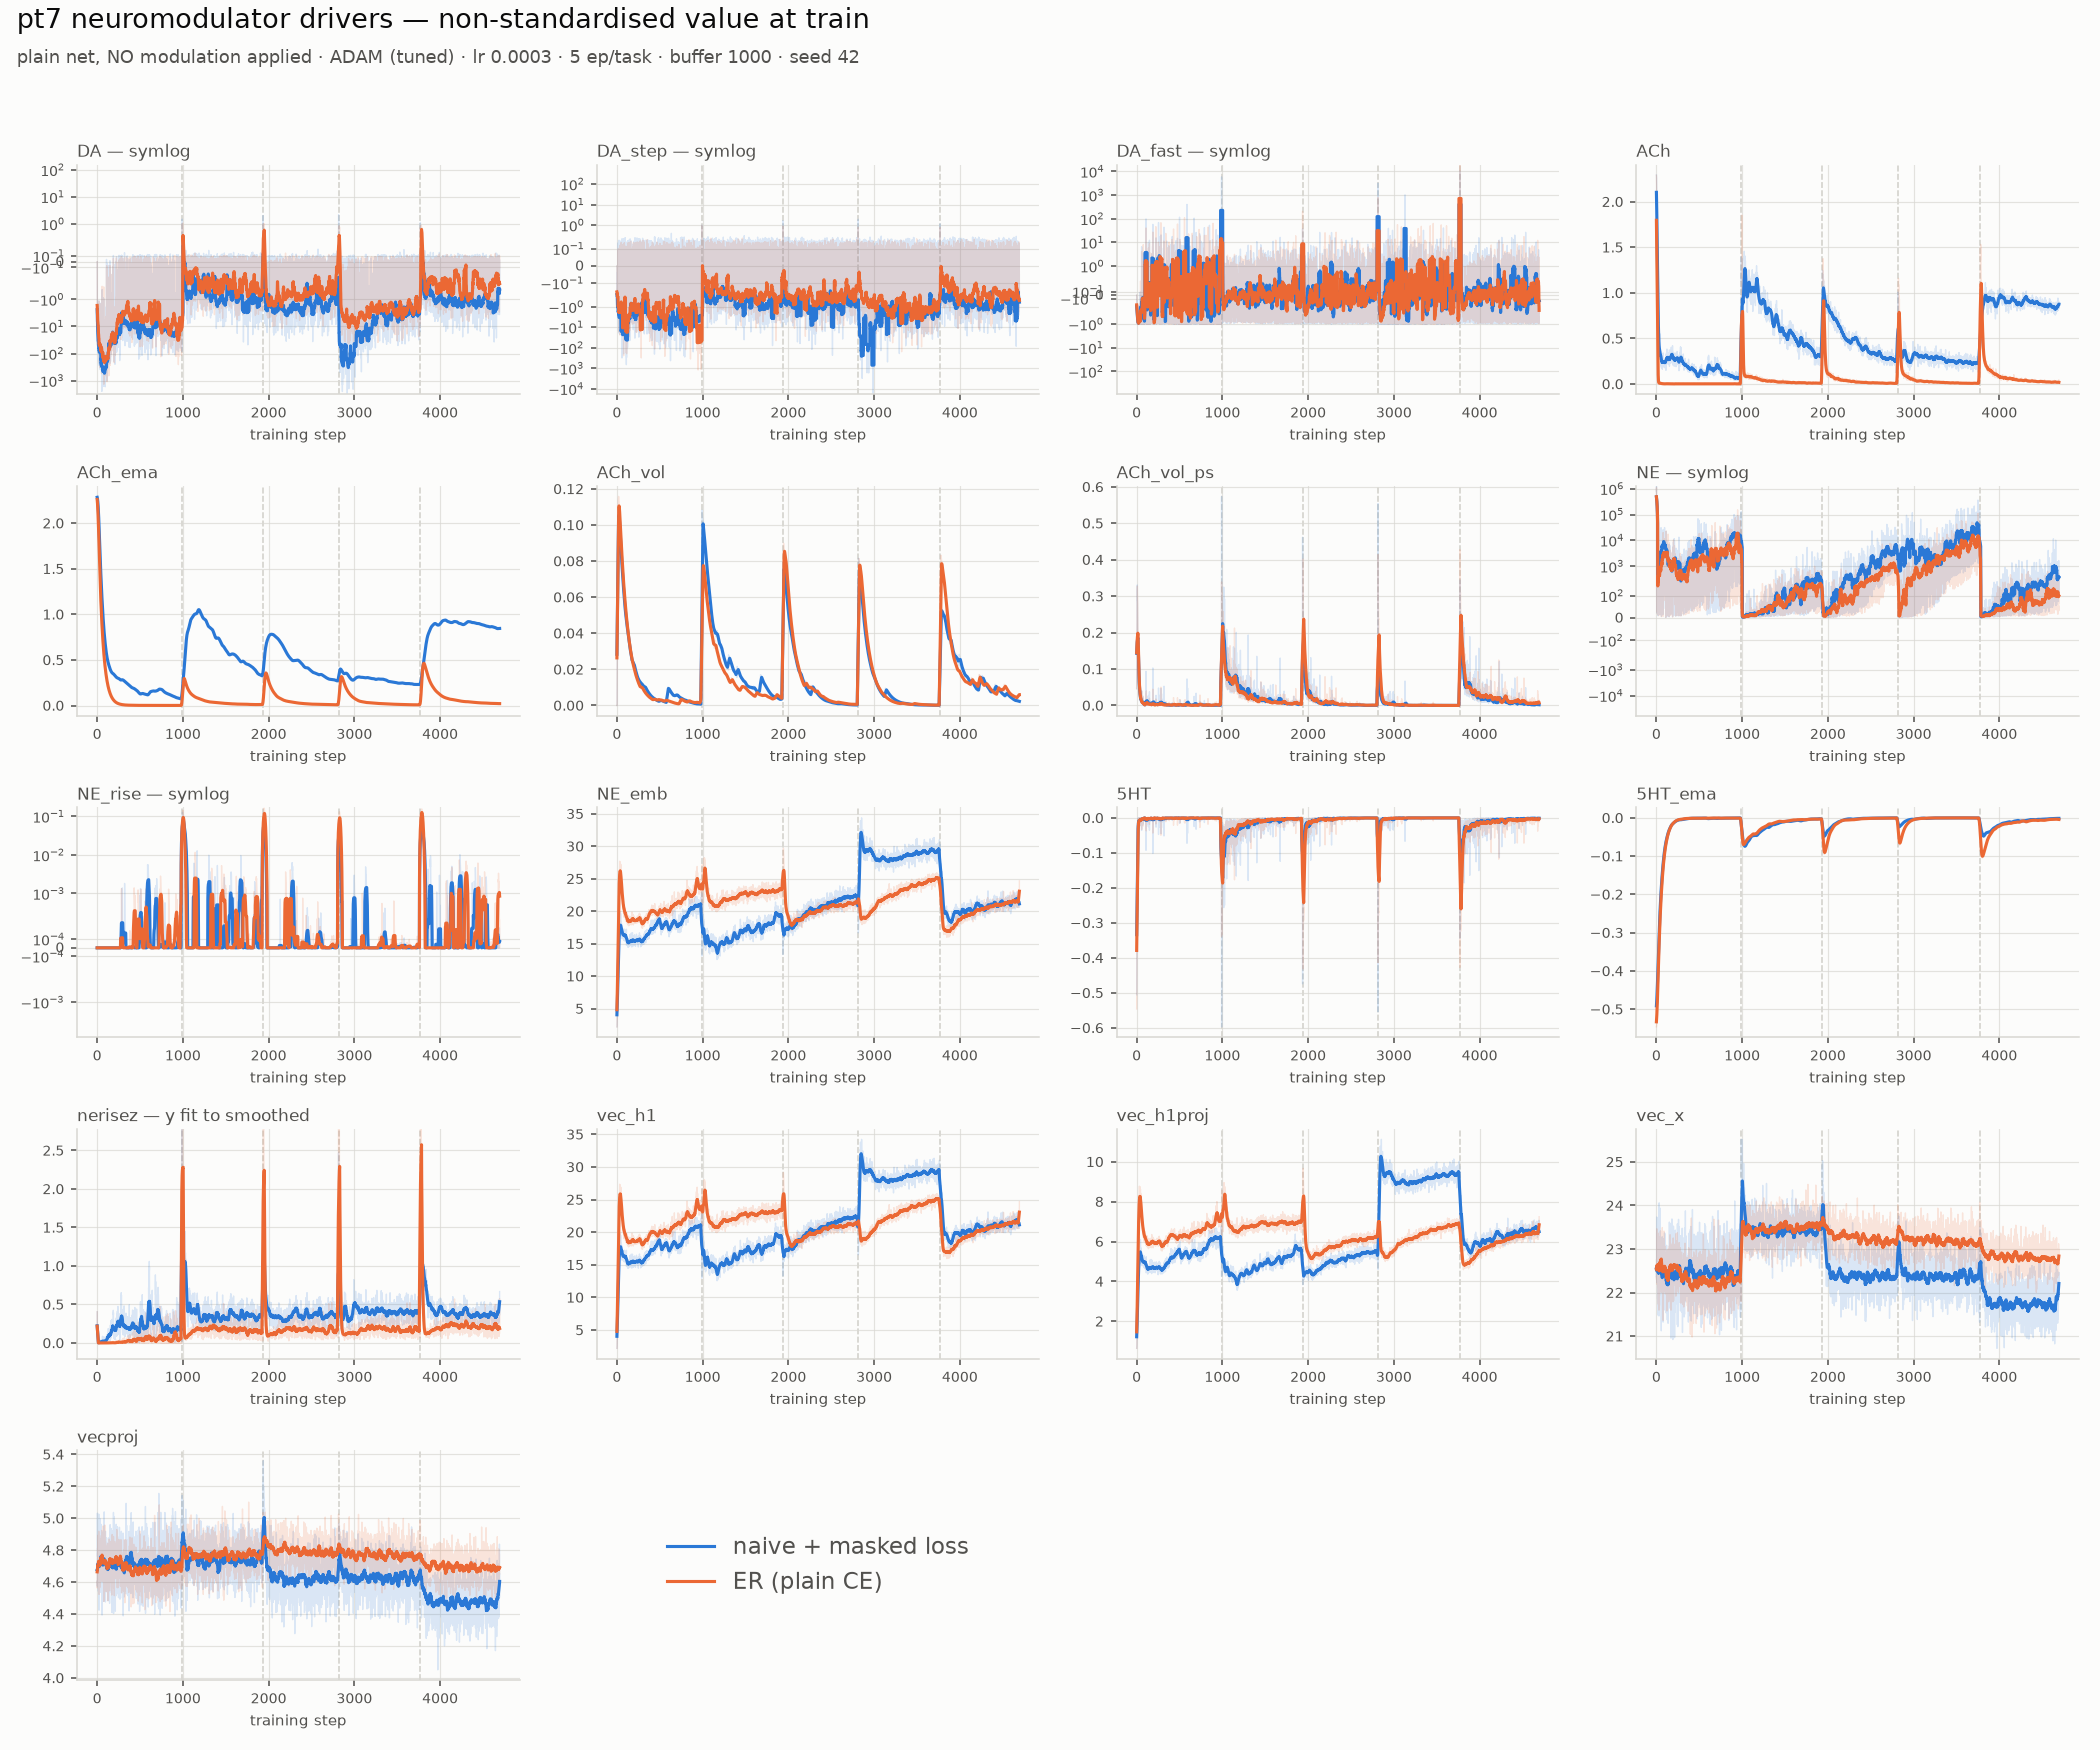
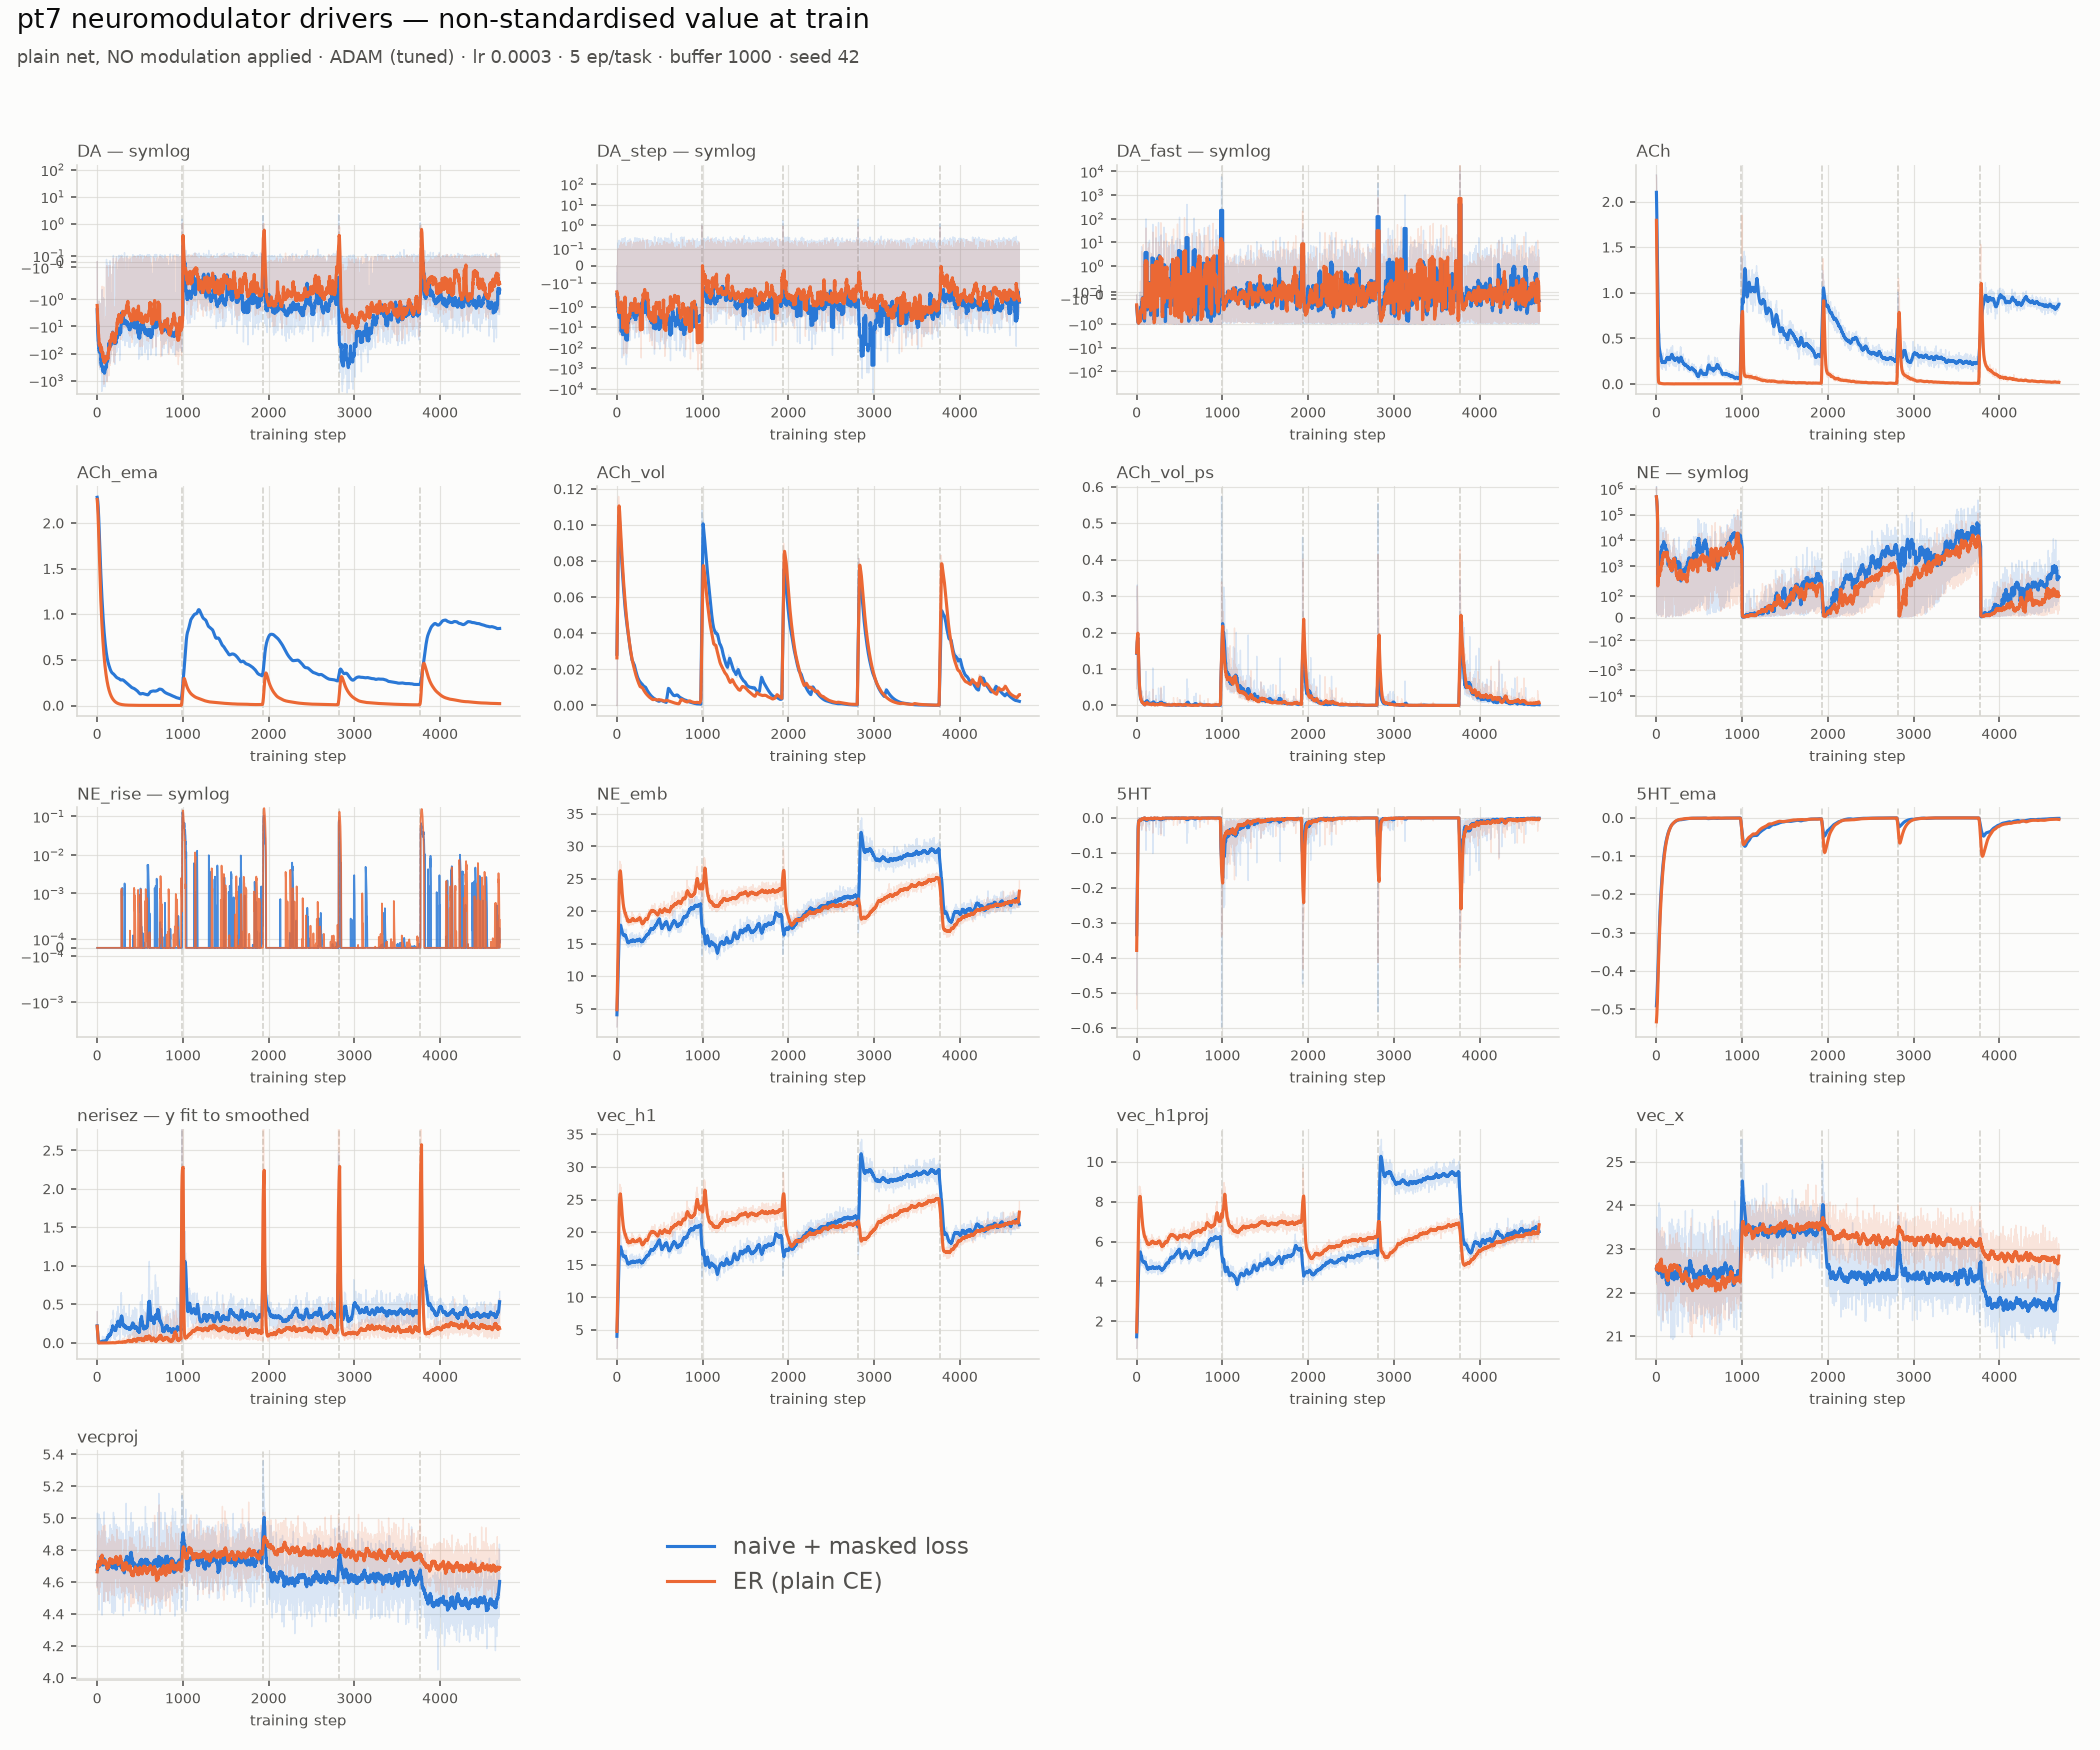
pt7 driver traces: drop the misleading moving average on the NE_rise raw training panel
Symlog alone was not enough: the panel drew a moving average over a signal that is
exactly zero on ~82% of steps, and a mean over a sparse spike train smears each
spike into a plateau exactly one window wide at 1/w of its height - reading as a
sustained elevation that never occurred.

Compared raw-only, long-window mean, linear envelope and rolling-max. Raw at full
opacity on symlog is the only artifact-free view, and it is also the clearest: four
decaying task-boundary spikes, ER an order of magnitude above naive, the zero floor
and the 1e-4..1e-2 activity between boundaries all legible. Added NO_SMOOTH keyed on
(driver, basis, phase); all other panels keep the smoothed line. Re-plotted all
three folders.

Changed region(s): [[0.031, 0.4629, 0.2476, 0.5554]]

diff --git a/results/pt7_driver_traces.py b/results/pt7_driver_traces.py
@@ -317,6 +317,12 @@ def _smooth(v, w):
 # linear axis can only ever show its four task-boundary spikes.
 FORCE_SYMLOG = {("NE_rise", "raw", "train"): 5e-4}
 
+# Panels where the moving average is itself MISLEADING and the raw trace is the honest view. A mean over a
+# sparse spike train (NE_rise is 0 on ~82% of steps) smears each spike into a plateau exactly one window
+# wide at 1/w of its height, which reads as a sustained elevation that never happened. Plot raw, full
+# opacity, no smoothed line.
+NO_SMOOTH = {("NE_rise", "raw", "train")}
+
 
 def _pick_scale(ax, series, key=None, basis=None, phase=None):
     """Linear unless the dynamic range is extreme (the tonic drivers blow up once standardised), in which
@@ -362,11 +368,15 @@ def _panel(ax, data, key, basis, phase, title):
         m = data[f"{arm}|{phase}|{key}|{basis}|mean"]
         if not len(m):
             continue
-        w = max(1, len(m) // 180)
-        s = _smooth(m, w)
-        ax.plot(m, color=COLOR[arm], lw=0.7, alpha=0.16, zorder=1)
-        ax.plot(s, color=COLOR[arm], lw=1.6, label=LABEL[arm], zorder=3)
-        used.append(m); smoothed.append(s)
+        if (key, basis, phase) in NO_SMOOTH:
+            ax.plot(m, color=COLOR[arm], lw=0.9, alpha=0.85, label=LABEL[arm], zorder=3)
+            used.append(m); smoothed.append(m)
+        else:
+            w = max(1, len(m) // 180)
+            s = _smooth(m, w)
+            ax.plot(m, color=COLOR[arm], lw=0.7, alpha=0.16, zorder=1)
+            ax.plot(s, color=COLOR[arm], lw=1.6, label=LABEL[arm], zorder=3)
+            used.append(m); smoothed.append(s)
         for b in data[f"{arm}|{phase}|bounds"][:-1]:
             ax.axvline(b, color=GRID, lw=0.8, ls="--", zorder=0)
     sym = _pick_scale(ax, used, key, basis, phase)
